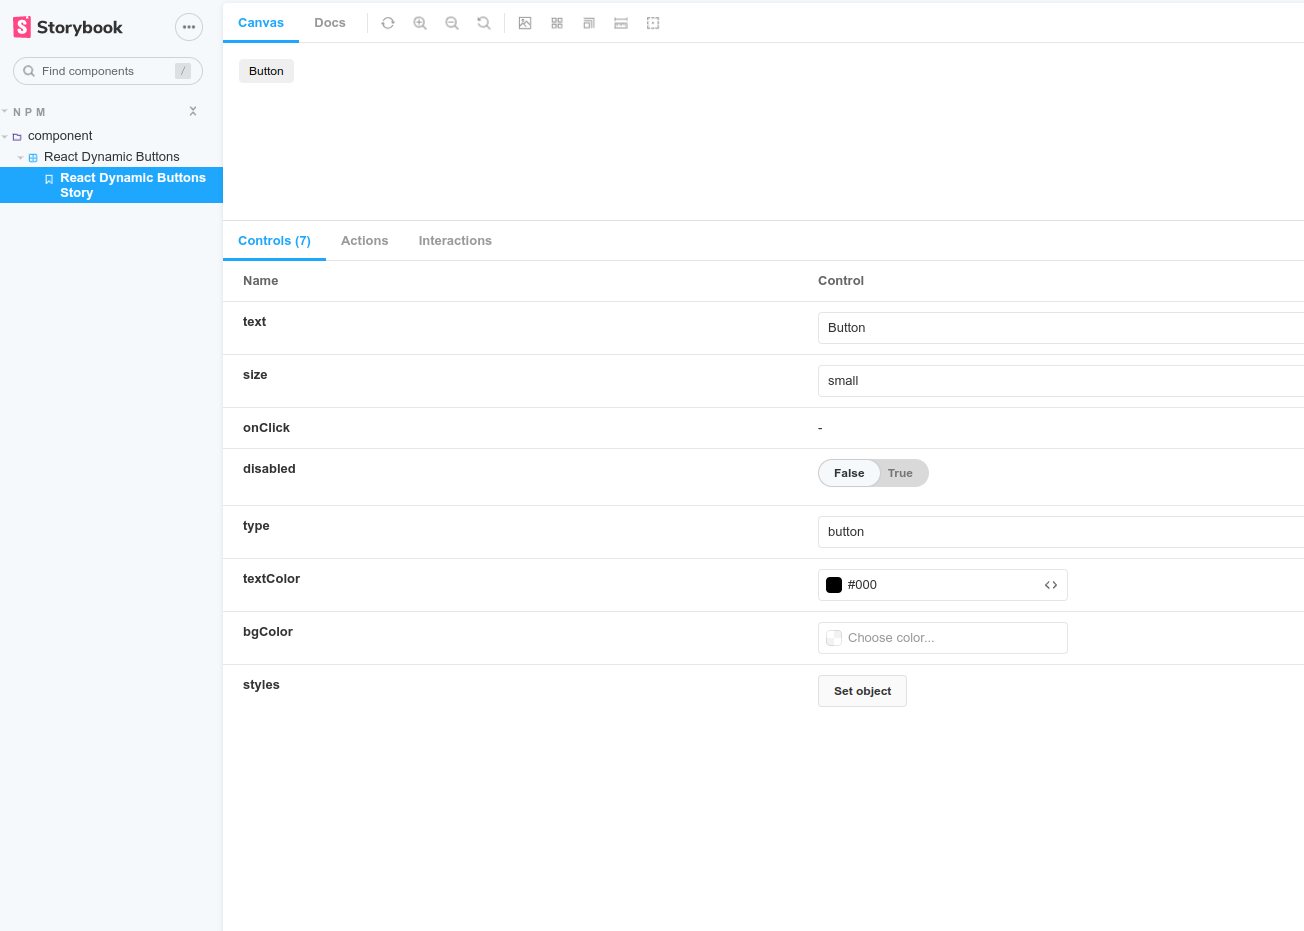
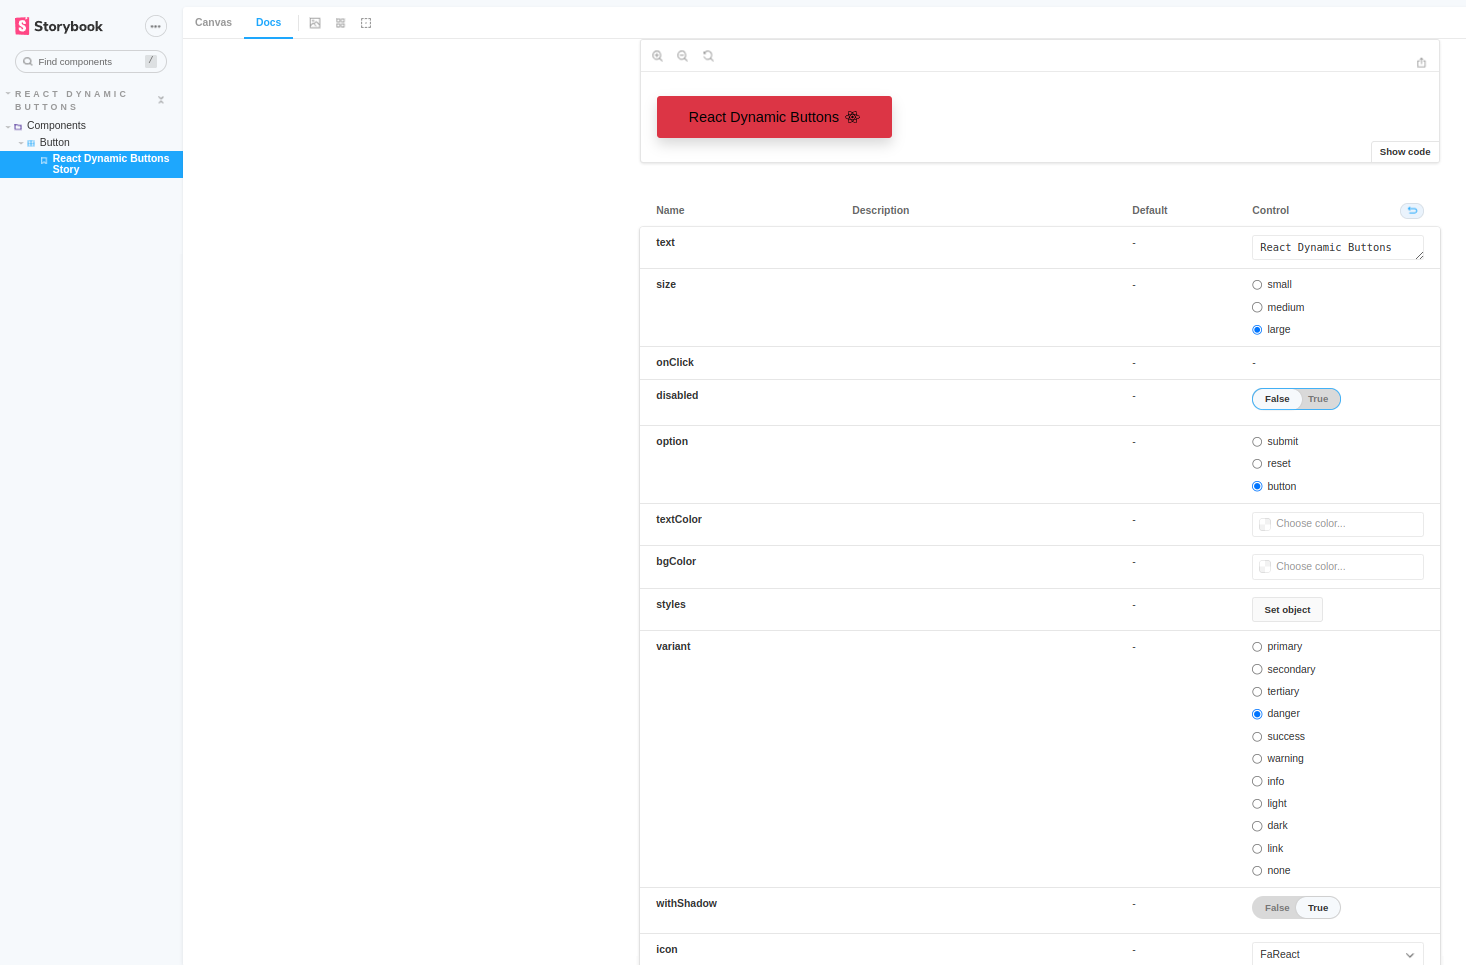
deploy v0.0.24

diff --git a/src/utils.ts b/src/utils.ts
@@ -80,4 +80,53 @@ export const getVariantProps = (variant: ButtonTypes) => {
     }
     }
 
+    export const getShadowProps = (variant: ButtonTypes) => {
+        switch (variant) {
+            case "primary":
+            return {
+                boxShadow: "0 0.5rem 1rem rgba(0, 0, 0, 0.15)",
+            };
+            case "secondary":
+            return {
+                boxShadow: "0 0.5rem 1rem rgba(0, 0, 0, 0.15)",
+            };
+            case "tertiary":
+            return {
+                boxShadow: "0 0.5rem 1rem rgba(0, 0, 0, 0.15)",
+            };
+            case "danger":
+            return {
+                boxShadow: "0 0.5rem 1rem rgba(0, 0, 0, 0.15)",
+            };
+            case "success":
+            return {
+                boxShadow: "0 0.5rem 1rem rgba(0, 0, 0, 0.15)",
+            };
+            case "warning":
+            return {
+                boxShadow: "0 0.5rem 1rem rgba(0, 0, 0, 0.15)",
+            };
+            case "info":
+            return {
+                boxShadow: "0 0.5rem 1rem rgba(0, 0, 0, 0.15)",
+            };
+            case "light":
+            return {
+                boxShadow: "0 0.5rem 1rem rgba(0, 0, 0, 0.15)",
+            };
+            case "dark":
+            return {
+                boxShadow: "0 0.5rem 1rem rgba(0, 0, 0, 0.15)",
+            };
+            case "link":
+            return {
+                boxShadow: "0 0.5rem 1rem rgba(0, 0, 0, 0.15)",
+            };
+            case null:
+            return {};
+    
+        }
+
+    }
+
   

diff --git a/src/index.tsx b/src/index.tsx
@@ -2,12 +2,12 @@ import React from 'react'
 import { getIcon } from './icons';
 import StyledButton from './StyledButton'
 import { ButtonProps } from './types';
-import { getSizeProps, getVariantProps } from './utils';
+import { getShadowProps, getSizeProps, getVariantProps } from './utils';
 
 
  const ReactDynamicButtons: React.FC<ButtonProps> = ({ ...props }) => {
-  const { text, size, variant, styles, className, onClick, disabled, bgColor, textColor, icon, iconPosition } = props;
-  
+  const { text, size, variant, styles, className, onClick, disabled, bgColor, textColor, icon, iconPosition, withShadow = false } = props;
+
 
   let _style: React.CSSProperties = {}
 
@@ -18,10 +18,14 @@ import { getSizeProps, getVariantProps } from './utils';
   if(variant) {
     _style = { ..._style, ...getVariantProps(variant) }
   }
- 
-   if(styles){
+
+  if (variant && withShadow) {
+    _style = { ..._style, ...getShadowProps(variant) }
+  }
+    
+  if(styles){
       _style = { ..._style, ...styles }
-   }
+  }
 
 
   return (
@@ -33,6 +37,7 @@ import { getSizeProps, getVariantProps } from './utils';
     disabled={disabled} 
     bgColor={bgColor}
     textColor={textColor}
+    withShadow={withShadow}
     >{icon && iconPosition === "left" && getIcon(icon)} {text} {icon && iconPosition === "right" && getIcon(icon)}
     </StyledButton>
   )

diff --git a/.storybook/main.js b/.storybook/main.js
@@ -1,5 +1,5 @@
 module.exports = {
-  stories: ["../src/stories/*.stories.mdx", "../src/stories/*.stories.@(js|jsx|ts|tsx)"],
+  stories: ["../src/stories/*.stories.mdx", "../src/stories/*.stories.@(ts|tsx)"],
   addons: ["@storybook/addon-links", "@storybook/addon-essentials", "@storybook/addon-interactions"],
   framework: "@storybook/react",
 };

diff --git a/src/types.ts b/src/types.ts
@@ -19,6 +19,7 @@ export interface ButtonProps extends
   size: SizesTypes
   onClick: () => void
   variant: ButtonTypes
+  withShadow?: boolean
   disabled?: boolean
   option: OptionsType
   styles?: React.CSSProperties

diff --git a/src/stories/button-component.stories.tsx b/src/stories/button-component.stories.tsx
@@ -62,6 +62,7 @@ ReactDynamicButtonsStory.args = {
   bgColor: "",
   styles: undefined,
   variant: "primary",
+  withShadow: false,
   icon: null,
   iconPosition: "none",
   className: "ReactDynamicButtons",
